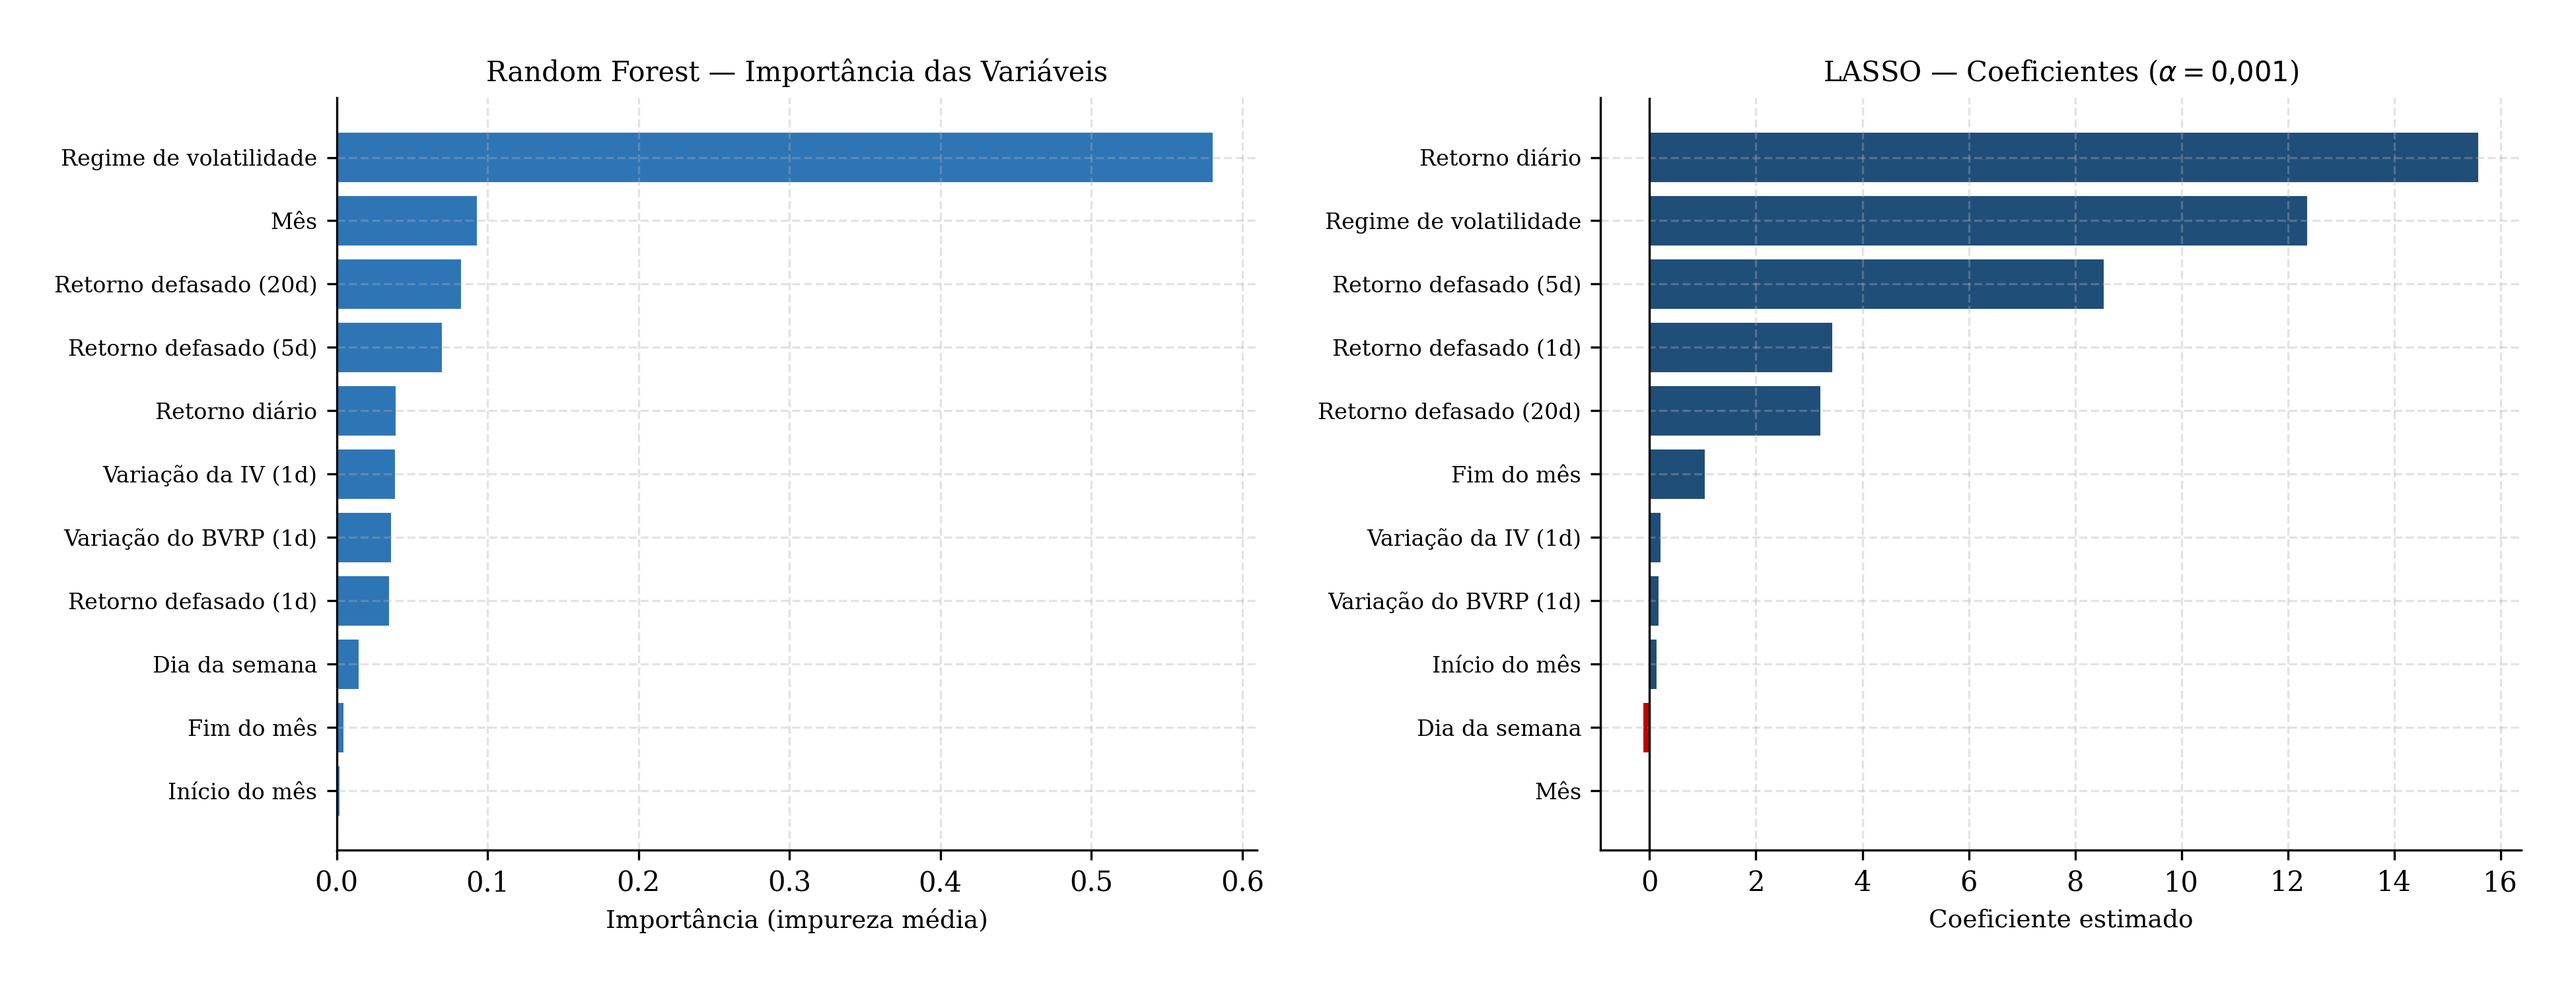
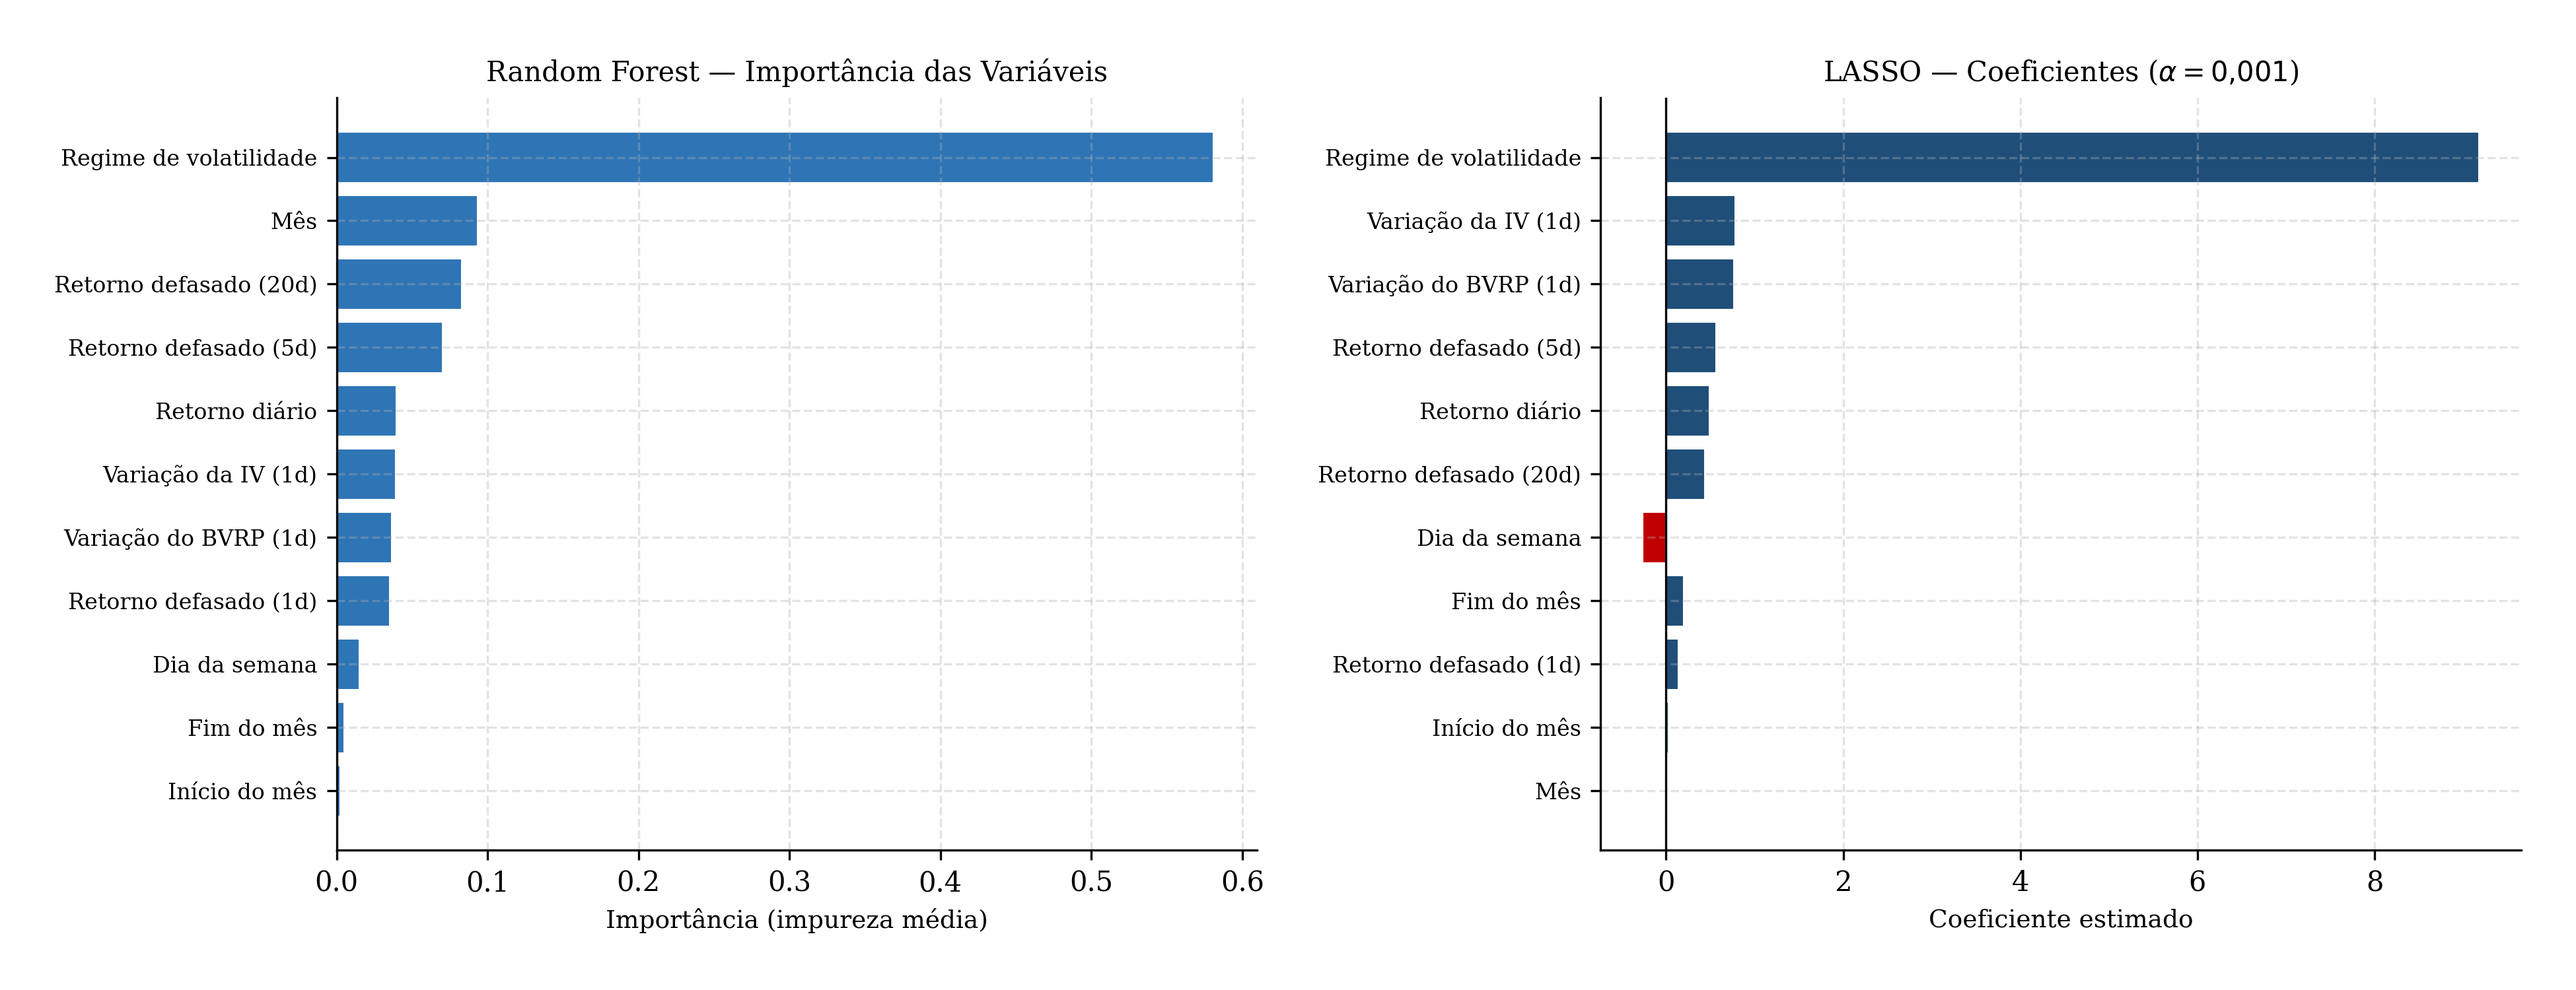
Cap6: padroniza modelos lineares (MQO/Ridge/LASSO) no regenerate_cap8.py, reconcilia Tabela 6.1 com SHAP, atualiza prosa 6.4
Decisao: sem padronizacao, o ranking de coeficientes da Tabela 6.1 era
artefato de escala (retorno diario dominava so por ter variancia maior
que as demais features) e contradizia o SHAP (Fig. 6.2/6.3, que ja
apontava regime de volatilidade como preditor dominante isolado).
Padronizar reconcilia tabela e figura, e torna verdadeira a nota que ja
afirmava "variaveis padronizadas".

- regenerate_cap8.py: StandardScaler().fit(X_train), aplicado via
  .transform() em X_train e X_test -- fitado so no treino, sem vazamento.
  Aplicado apenas aos 3 modelos lineares (MQO/Ridge/LASSO); RF, GB e os
  dois benchmarks continuam recebendo X bruto (arvores nao precisam de
  escala). Nota da Tabela 6.1 corrigida de "centrada na media" (falso, so
  descrevia metade do StandardScaler) para "centradas e escaladas
  (z-score)" (verdadeiro agora).
- Tabela 6.1 (tab8_coeficientes.tex) regenerada: regime de volatilidade
  passa a dominar isoladamente (~9,2 em LASSO e Ridge, ~12x o 2o colocado),
  batendo com o SHAP. Retorno diario cai de topo-2 (15,6/7,7) para meio da
  tabela (~0,49 nos dois) -- era artefato de escala, nao sinal real.
- Tabela 6.2 (tab8_oos_performance.tex): RF/GB/benchmarks confirmados
  intocados (conferido antes de commitar). MQO e LASSO praticamente
  iguais a antes; Ridge caiu de 0,390 para 0,388 (3a casa decimal) --
  os tres lineares agora convergem exatamente para ~0,388.
- cap6_ml_unificado.tex, Secao 6.4: paragrafo do R2 atualizado (Ridge
[…]

Changed region(s): [[0.4964, 0.1227, 0.8997, 0.7667]]

diff --git a/chapters/cap6_ml_unificado.tex b/chapters/cap6_ml_unificado.tex
@@ -159,16 +159,13 @@ temporal, com busca em grade sobre $\alpha \in \{10^{-4}, 10^{-3}, \ldots,
 10^{2}\}$; o MQO corresponde ao caso $\alpha = 0$.
 
 A Tabela~\ref{tab:cap8_oos_performance} reporta o desempenho. Os três modelos
-exibem $R^2$ fora da amostra praticamente idênticos (MQO 0{,}388, LASSO 0{,}388,
-Ridge 0{,}390), superando com folga a média incondicional, mas ficando muito
-aquém do benchmark de persistência (0{,}937). A coincidência é reveladora: o MQO
-não penalizado alcança o mesmo desempenho preditivo que suas versões
-regularizadas, indicando que a regularização é praticamente imaterial neste
+lineares exibem $R^2$ fora da amostra praticamente idênticos (MQO, LASSO e Ridge
+convergem para $\approx 0{,}388$), superando com folga a média incondicional, mas
+ficando muito aquém do benchmark de persistência (0{,}937). A coincidência é
+reveladora: o MQO não penalizado alcança exatamente o mesmo desempenho preditivo
+que suas versões regularizadas, indicando que a regularização é imaterial neste
 problema. O gargalo, portanto, não é sobreajuste --- que a penalização
-corrigiria ---, mas a ausência de sinal linear explorável nos preditores. Ridge
-e LASSO redistribuem o peso entre os regressores (a Tabela~\ref{tab:cap8_coeficientes}
-mostra o encolhimento do coeficiente do retorno diário sob Ridge), mas essa
-redistribuição não se traduz em ganho fora da amostra.
+corrigiria ---, mas a ausência de sinal linear explorável nos preditores.
 
 % (Tabela removida — pertence ao Cap. 5 OLS)
 
@@ -176,17 +173,27 @@ redistribuição não se traduz em ganho fora da amostra.
 \label{subsec:cap5_lineares_coeficientes}
 
 A Tabela~\ref{tab:cap8_coeficientes} apresenta os coeficientes estimados pelo
-LASSO e pelo Ridge, ordenados pela magnitude absoluta. Dois preditores concentram
-o peso linear: o regime de volatilidade e o retorno diário contemporâneo. O regime
-apresenta magnitude estável entre os dois modelos ($\approx$12,4 pontos percentuais
-em ambos), ao passo que o retorno diário oscila fortemente (de $\approx$7,7 no Ridge
-a $\approx$15,6 no LASSO). Essa assimetria é típica de colinearidade entre preditores:
-o LASSO concentra peso em um regressor e encolhe os correlacionados, enquanto o Ridge
-o distribui. A estabilidade do coeficiente de regime entre as duas penalizações
-indica que ele carrega informação que os demais preditores não replicam — leitura
-corroborada pela análise SHAP (Seção~\ref{subsec:cap5_shap}). Os sinais são positivos
-e concordantes entre LASSO e Ridge: sob a convenção $\text{BVRP} = \text{RV} - \text{IV}$,
-regimes de volatilidade realizada elevada deslocam o prêmio para cima (menos negativo).
+LASSO e pelo Ridge, ordenados pela magnitude absoluta e obtidos sobre preditores
+padronizados (\textit{z-score} calibrado no treino), o que torna as magnitudes
+diretamente comparáveis entre si. Um único preditor domina de forma inequívoca:
+o regime de volatilidade, com coeficiente de $\approx 9{,}2$ em ambos os modelos
+--- cerca de doze vezes o segundo colocado. Os demais preditores contribuem de
+forma marginal e homogênea: as variações diárias da IV e do BVRP ($\approx 0{,}77$),
+os retornos defasados em 5 e 20 dias e o retorno diário contemporâneo (todos
+entre $0{,}44$ e $0{,}56$), e as variáveis de calendário com peso próximo de zero.
+
+Dois aspectos merecem destaque. Primeiro, a quase perfeita coincidência entre os
+coeficientes do LASSO e do Ridge --- variável a variável, os dois modelos
+atribuem pesos praticamente idênticos --- indica ausência de colinearidade
+severa entre os preditores retidos: quando há redundância, LASSO e Ridge divergem
+(o primeiro concentra, o segundo distribui), e aqui não divergem. Segundo, e mais
+importante, o LASSO não zerou nenhum coeficiente sob $\alpha = 0{,}001$: todos os
+onze preditores sobrevivem à penalidade $L_1$, ainda que a maioria com peso
+pequeno. A estrutura linear identificada é, portanto, dominada por um único fator
+--- o regime de volatilidade ---, leitura que a análise SHAP da
+Seção~\ref{subsec:cap5_shap} (Figura~\ref{fig:cap5_shap_bar}) corrobora de forma
+independente, situando o mesmo regime como o preditor de maior impacto por ampla
+margem.
 
 \input{tables/tab8/tab8_coeficientes}
 

diff --git a/scripts/regenerate_cap8.py b/scripts/regenerate_cap8.py
@@ -20,6 +20,7 @@ from sklearn.dummy import DummyRegressor
 from sklearn.ensemble import GradientBoostingRegressor, RandomForestRegressor
 from sklearn.linear_model import Lasso, LinearRegression, Ridge
 from sklearn.metrics import mean_squared_error, r2_score
+from sklearn.preprocessing import StandardScaler
 
 matplotlib.rcParams.update({
     "font.family": "serif",
@@ -89,6 +90,16 @@ print(f"Treino : {X_train.shape}  {y_train.index[0].date()} a {y_train.index[-1]
 print(f"Teste  : {X_test.shape}   {y_test.index[0].date()} a {y_test.index[-1].date()}")
 
 # ── 2. Treinar modelos ────────────────────────────────────────────────────────
+# Padronizacao (z-score) SO para os modelos lineares (MQO/Ridge/LASSO) --
+# scaler fitado exclusivamente no treino, aplicado (transform) no teste, sem
+# vazamento. Arvores (RF/GB) e benchmarks recebem X bruto -- nao precisam de
+# escala e a padronizacao nao altera sua previsao.
+LINEAR_MODELS = {"MQO", "LASSO", "Ridge"}
+
+scaler = StandardScaler().fit(X_train)
+X_train_scaled = pd.DataFrame(scaler.transform(X_train), index=X_train.index, columns=X_train.columns)
+X_test_scaled  = pd.DataFrame(scaler.transform(X_test),  index=X_test.index,  columns=X_test.columns)
+
 models = {
     "MQO":               LinearRegression(),
     "LASSO":             Lasso(alpha=0.001, max_iter=50_000),
@@ -102,8 +113,10 @@ preds   = {}
 metrics = []
 
 for name, model in models.items():
-    model.fit(X_train, y_train)
-    yhat = pd.Series(model.predict(X_test), index=y_test.index, name=name)
+    Xtr = X_train_scaled if name in LINEAR_MODELS else X_train
+    Xte = X_test_scaled  if name in LINEAR_MODELS else X_test
+    model.fit(Xtr, y_train)
+    yhat = pd.Series(model.predict(Xte), index=y_test.index, name=name)
     preds[name] = yhat
     mse = mean_squared_error(y_test, yhat)
     r2  = r2_score(y_test, yhat)
@@ -338,7 +351,7 @@ tab2_lines += [
     r"\end{tabular}",
     r"\par\smallskip",
     r"\footnotesize\textit{Nota}: LASSO estimado com $\alpha=0{,}001$ (50.000 iterações máx.); Ridge com $\alpha=1{,}0$. "
-    r"Variáveis padronizadas internamente pelo scikit-learn (cada feature centrada na média de treino). "
+    r"Variáveis padronizadas (\textit{z-score}: centradas e escaladas pelo desvio-padrão) com parâmetros calibrados exclusivamente no conjunto de treino. "
     f"Período de treino: {_fmt_data_pt(y_train.index[0])} -- {_fmt_data_pt(y_train.index[-1])} ({_n_train} observações).",
     r"\end{table}",
 ]

diff --git a/tables/tab8/tab8_coeficientes.tex b/tables/tab8/tab8_coeficientes.tex
@@ -9,19 +9,19 @@ Variáveis com coeficiente LASSO exatamente zero foram eliminadas pela penalidad
 \toprule
 Variável & LASSO & Ridge \\
 \midrule
-Retorno diário & 15,5969 & 7,6887 \\
-Regime de volatilidade & 12,3811 & 12,3561 \\
-Retorno defasado (5d) & 8,5559 & 7,1609 \\
-Retorno defasado (1d) & 3,4463 & 2,6924 \\
-Retorno defasado (20d) & 3,2268 & 3,5178 \\
-Fim do mês & 1,0450 & 1,0234 \\
-Variação da IV (1d) & 0,2198 & 0,2083 \\
-Variação do BVRP (1d) & 0,1838 & 0,1920 \\
-Início do mês & 0,1396 & 0,2229 \\
-Dia da semana & -0,1339 & -0,1325 \\
-Mês & -0,0013 & -0,0036 \\
+Regime de volatilidade & 9,1810 & 9,1725 \\
+Variação da IV (1d) & 0,7761 & 0,7756 \\
+Variação do BVRP (1d) & 0,7665 & 0,7678 \\
+Retorno defasado (5d) & 0,5625 & 0,5630 \\
+Retorno diário & 0,4919 & 0,4921 \\
+Retorno defasado (20d) & 0,4370 & 0,4371 \\
+Dia da semana & -0,2670 & -0,2674 \\
+Fim do mês & 0,1945 & 0,1954 \\
+Retorno defasado (1d) & 0,1358 & 0,1366 \\
+Início do mês & 0,0291 & 0,0303 \\
+Mês & -0,0028 & -0,0054 \\
 \bottomrule
 \end{tabular}
 \par\smallskip
-\footnotesize\textit{Nota}: LASSO estimado com $\alpha=0{,}001$ (50.000 iterações máx.); Ridge com $\alpha=1{,}0$. Variáveis padronizadas internamente pelo scikit-learn (cada feature centrada na média de treino). Período de treino: 30~nov.\ 2021 -- 30~nov.\ 2024 (1066 observações).
+\footnotesize\textit{Nota}: LASSO estimado com $\alpha=0{,}001$ (50.000 iterações máx.); Ridge com $\alpha=1{,}0$. Variáveis padronizadas (\textit{z-score}: centradas e escaladas pelo desvio-padrão) com parâmetros calibrados exclusivamente no conjunto de treino. Período de treino: 30~nov.\ 2021 -- 30~nov.\ 2024 (1066 observações).
 \end{table}

diff --git a/tables/tab8/tab8_oos_performance.tex b/tables/tab8/tab8_oos_performance.tex
@@ -12,9 +12,9 @@ Modelo & MSE & RMSE & $R^2_{\text{OOS}}$ \\
 Persistência (valor anterior) & 7,98 & 2,82 & 0,937 \\
 Gradient Boosting & 70,62 & 8,40 & 0,438 \\
 Random Forest & 72,42 & 8,51 & 0,424 \\
-Ridge & 76,71 & 8,76 & 0,390 \\
-LASSO & 76,88 & 8,77 & 0,388 \\
+Ridge & 76,93 & 8,77 & 0,388 \\
 MQO & 76,95 & 8,77 & 0,388 \\
+LASSO & 76,95 & 8,77 & 0,388 \\
 \midrule
 Benchmark (Média) & 138,71 & 11,78 & $-$0,104 \\
 \bottomrule
